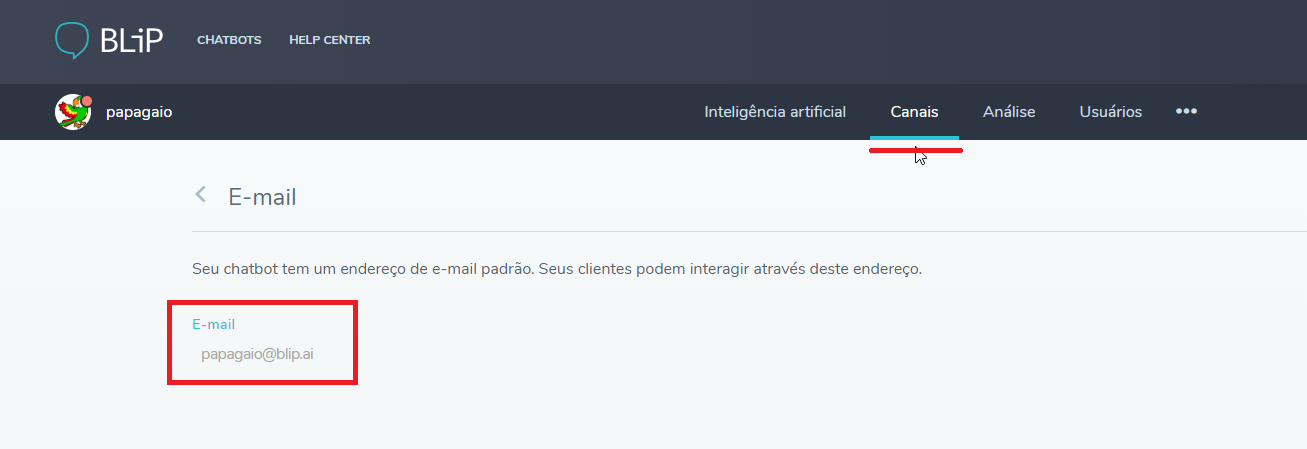
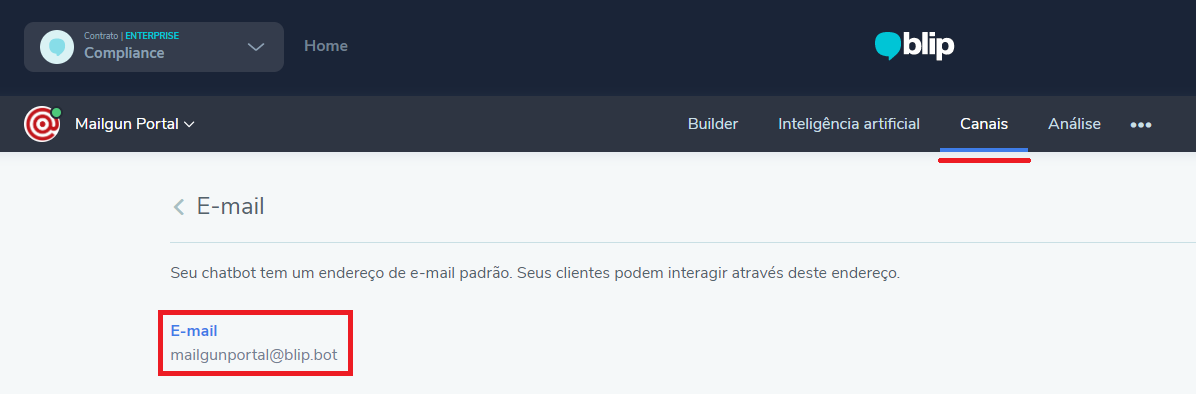
Update image to match example

diff --git a/docs/builder/enviando-email-pelo-bot-atraves-do-builder.md b/docs/builder/enviando-email-pelo-bot-atraves-do-builder.md
@@ -8,7 +8,7 @@ Enviar um email é uma tarefa comum para quem está desenvolvendo um bot. Email 
 
 ## Qual é o email do meu bot?
 
-No BLiP, todo chatbot já possui, automaticamente, um email. Este email é formado sempre pelo identificador do bot + **@blip.bot**. Assim, um bot criado com o identificador papagaio, terá um email **papagaio@blip.bot**. Para saber exatamente qual é o email do seu bot acesse no **Portal** o módulo **Canais > Email**, conforme imagem abaixo:
+No BLiP, todo chatbot já possui, automaticamente, um email. Este email é formado sempre pelo identificador do bot + **@blip.bot**. Assim, um bot criado com o identificador "mailgunportal", terá um email **mailgunportal@blip.bot**. Para saber exatamente qual é o email do seu bot acesse no **Portal** o módulo **Canais > Email**, conforme imagem abaixo:
 
 ![Email do Bot](/img/builder/builder-enviando-email-pelo-bot-atraves-do-builder-1.png)
 
